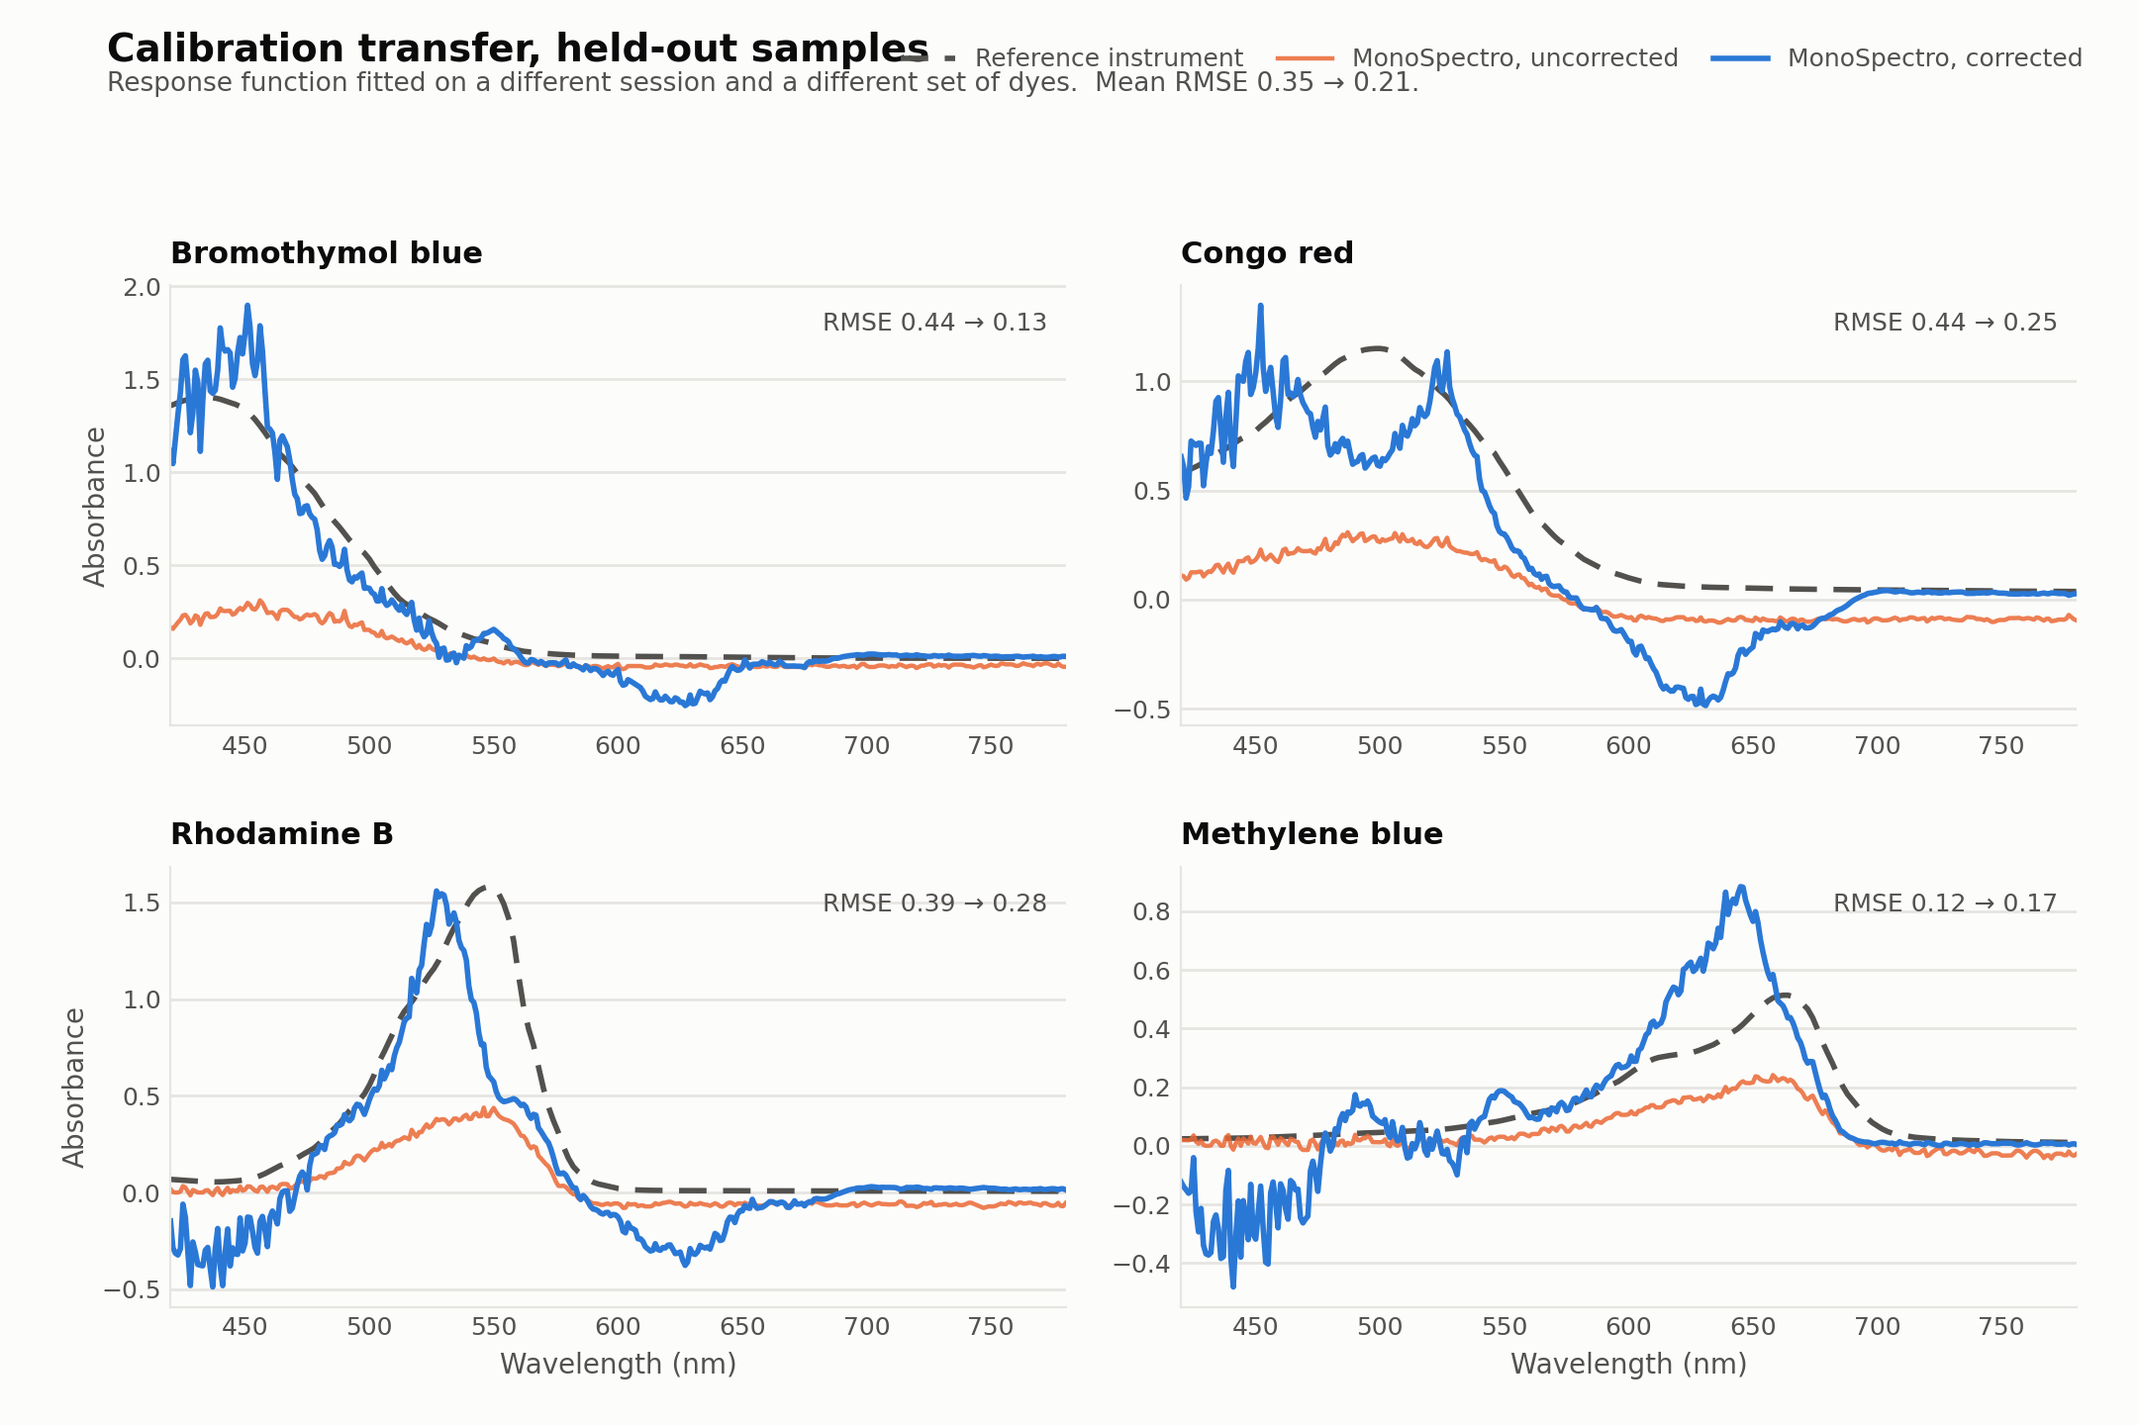
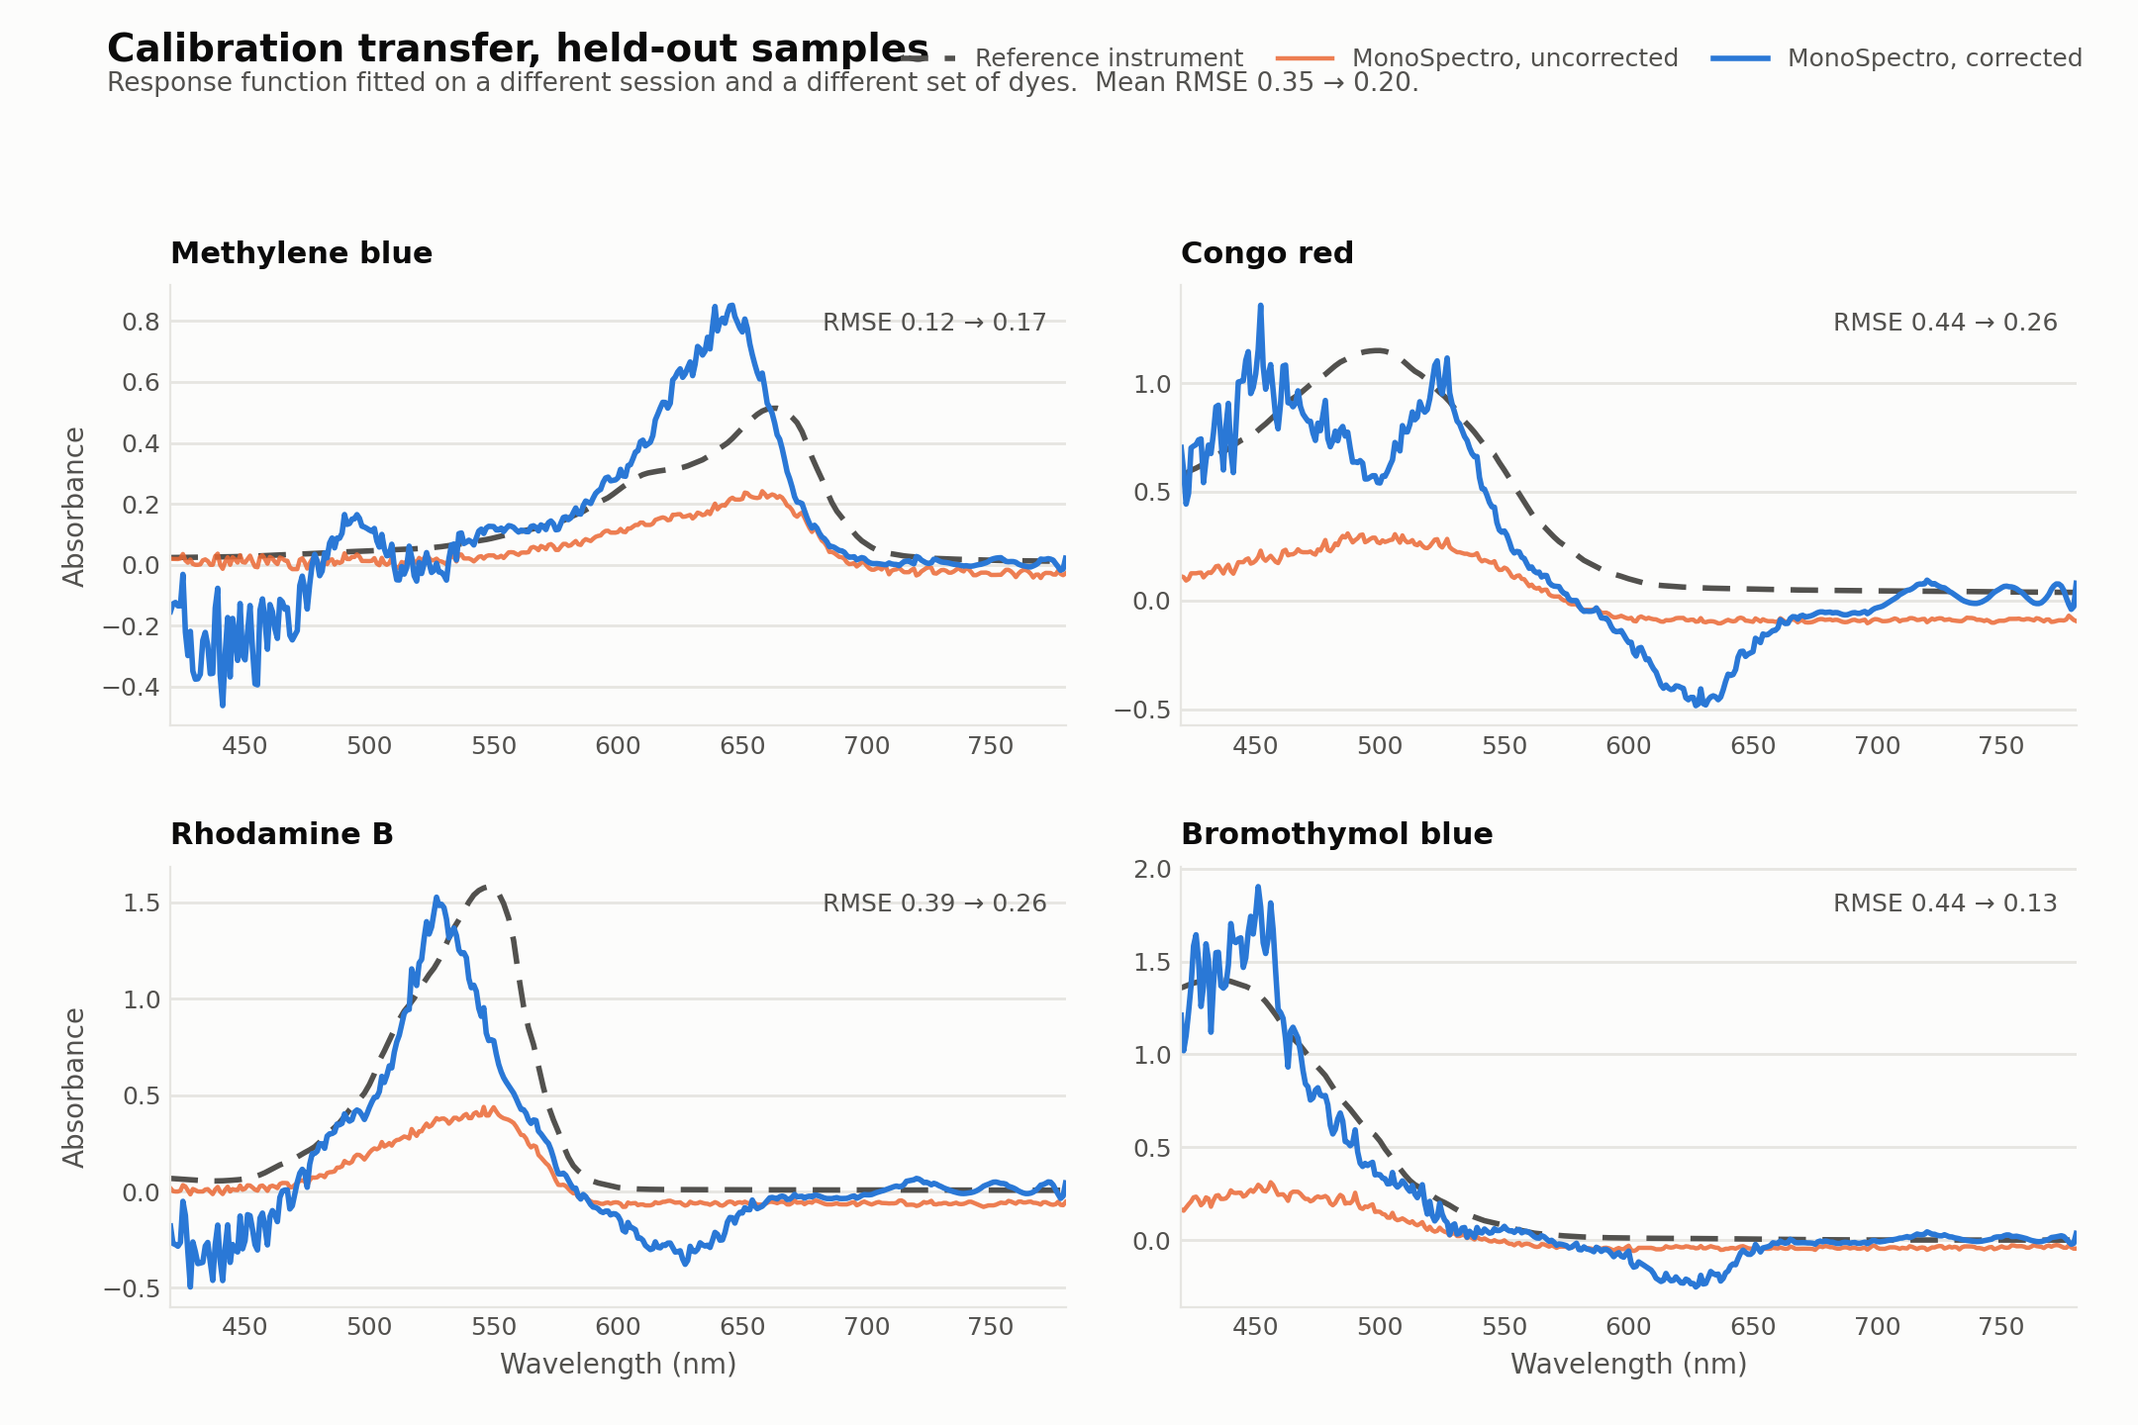
Implementa la calibración conjunta con base de Chebyshev
Añade ChebyshevResponse a tools/calibration_transfer.py: expande a(λ) y b(λ)
en una base de Chebyshev y ajusta todos los coeficientes en un solo mínimos
cuadrados sobre todas las longitudes de onda y todas las muestras de
entrenamiento a la vez, en vez del ajuste independiente por longitud de onda
+ suavizado (ResponseFunction). Misma estructura que la calibración de
absorbancia del "System B" (cámara + grating en Raspberry Pi) en
Rivera-Rivera et al., "Low-Cost Spectrophotometers: A Comparative Evaluation
of Open-Source Architectures", que reporta R² ajustado de 0.983.

El script ahora selecciona los hiperparámetros de ambos modelos por
leave-one-out sobre el set de entrenamiento (igual que antes), evalúa los
dos una sola vez contra el set de mayo, y usa el que gane para la gráfica.
En los datos propios de MonoSpectro, Chebyshev gana por un margen modesto
(RMSE medio 0.204 vs 0.209, -41% vs -40%) — mucho menor que la ventaja
reportada en el paper, probablemente porque la calibración de longitud de
onda y la alineación óptica de MonoSpectro tienen más ruido que las de
System B. Se actualiza el README con la comparación y los números nuevos.

Claude-Session: https://claude.ai/code/session_01EqG98eAYHJ56E3GHcXL1Tb

diff --git a/tools/calibration_transfer.py b/tools/calibration_transfer.py
@@ -2,25 +2,40 @@
 """
 Calibration transfer: correct MonoSpectro absorbance against a reference instrument.
 
-The model is a per-wavelength linear response function
+Both models fitted here share the same structure — a per-wavelength linear
+response function
 
     A_ref(lambda) = a(lambda) * A_diy(lambda) + b(lambda)
 
-fitted independently at every wavelength from a set of paired measurements, then
-smoothed along the wavelength axis so the gain and offset curves stay physical
-rather than tracking sample noise. Two coefficients per wavelength, each backed by
-as many observations as you have training samples.
+— and differ only in how a(lambda) and b(lambda) are estimated:
+
+  ResponseFunction   fits a(lambda) and b(lambda) independently at every
+                      wavelength, then smooths each curve with a Savitzky-Golay
+                      filter so it stays physical instead of tracking sample
+                      noise. Simple, but the fit and the smoothing are two
+                      separate steps.
+
+  ChebyshevResponse   expands a(lambda) and b(lambda) in a Chebyshev basis and
+                      fits every coefficient in one joint least-squares pass
+                      across all wavelengths and all training samples at once
+                      — the smoothness is built into the model instead of
+                      applied afterwards. Same structure used for System B in
+                      Rivera-Rivera et al., "Low-Cost Spectrophotometers: A
+                      Comparative Evaluation of Open-Source Architectures".
 
 Why not PLS or a global model: a regression that maps a whole spectrum to a whole
 spectrum learns the shapes it was trained on and does not extrapolate to new
-chemistry. This model learns a property of the *instrument* — how much its
-absorbance reading deviates at each wavelength — which is the same whatever is in
-the cuvette. On this project's data the difference is stark: on samples from a
-different session and a different set of dyes, the response function cut the error
-by 40 %, while a PLS model trained on the same pairs managed 4 %.
+chemistry. Both models above instead learn a property of the *instrument* — how
+much its absorbance reading deviates at each wavelength — which is the same
+whatever is in the cuvette. On this project's data the difference is stark: on
+samples from a different session and a different set of dyes, the response
+function cut the error by 40 %, while a PLS model trained on the same pairs
+managed 4 %.
 
-Hyperparameters (wavelength range, polynomial degree, smoothing window) are chosen
-by leave-one-out on the TRAINING set only. The held-out set is scored once.
+Both models' hyperparameters (wavelength range, and polynomial degree /
+smoothing window) are chosen by leave-one-out on the TRAINING set only, and both
+are then scored once on the held-out set — the lower-scoring one is used for the
+saved plot, and both scores are printed so the comparison is not hidden.
 
 Depends only on numpy, pandas, matplotlib and openpyxl — no SciPy, no
 scikit-learn — so it runs on the Raspberry Pi.
@@ -201,6 +216,74 @@ def leave_one_out(X, Y, degree, smooth):
     return float(np.mean(errs)), errs
 
 
+class ChebyshevResponse:
+    """Gain and offset expressed as a single joint Chebyshev expansion in
+    wavelength, fit in one least-squares pass across every sample and every
+    wavelength at once, rather than one independent regression per wavelength
+    smoothed afterwards.
+
+        a(lambda) = sum_m ca[m] . T_m(t(lambda))
+        b(lambda) = sum_m cb[m] . T_m(t(lambda))         t in [-1, 1]
+
+    Neighbouring wavelengths share the same detector, source and dye, so this
+    forces a(lambda) and b(lambda) to be smooth low-degree curves in
+    wavelength directly, instead of fitting pointwise and smoothing after the
+    fact — one (degree+1)*2 - parameter fit over the whole calibration set
+    instead of 2 parameters times the number of wavelengths, then a filter.
+    The Chebyshev basis (rather than plain powers of lambda) stays
+    well-conditioned as the degree grows, because its terms are close to
+    orthogonal over the fitted range.
+
+    Same model structure as Eq. 1-2 in Rivera-Rivera et al., "Low-Cost
+    Spectrophotometers: A Comparative Evaluation of Open-Source
+    Architectures" (System B), which reported R2_adj = 0.983 against a
+    commercial reference with this approach — the two lines the per-wavelength
+    OLS + Savitzky-Golay smoothing in ResponseFunction were designed to
+    approximate with less machinery. This class exists to check whether the
+    extra machinery actually earns its keep on MonoSpectro's own data.
+    """
+
+    def __init__(self, degree=8):
+        self.degree = degree
+
+    def _basis(self, grid):
+        lo, hi = grid[0], grid[-1]
+        t = 2 * (grid - lo) / (hi - lo) - 1
+        return np.polynomial.chebyshev.chebvander(t, self.degree)   # (L, degree+1)
+
+    def fit(self, X, Y, grid):
+        n, L = X.shape
+        Tm = self._basis(grid)
+        m1 = Tm.shape[1]
+        # One row per (sample, wavelength): Y = a(lambda)*X + b(lambda), linear
+        # in the Chebyshev coefficients, so the whole calibration is one lstsq.
+        A = np.zeros((n * L, 2 * m1))
+        b = np.zeros(n * L)
+        for i in range(n):
+            rows = slice(i * L, (i + 1) * L)
+            A[rows, :m1] = Tm * X[i][:, None]
+            A[rows, m1:] = Tm
+            b[rows] = Y[i]
+        coef, *_ = np.linalg.lstsq(A, b, rcond=None)
+        self.ca, self.cb, self.grid = coef[:m1], coef[m1:], grid
+        return self
+
+    def apply(self, X):
+        Tm = self._basis(self.grid)
+        a, b = Tm @ self.ca, Tm @ self.cb
+        return a[None, :] * np.asarray(X, float) + b[None, :]
+
+
+def leave_one_out_cheb(X, Y, grid, degree):
+    n = len(X)
+    errs = []
+    for i in range(n):
+        tr = [j for j in range(n) if j != i]
+        m = ChebyshevResponse(degree).fit(X[tr], Y[tr], grid)
+        errs.append(rmse(m.apply(X[i:i + 1])[0], Y[i]))
+    return float(np.mean(errs)), errs
+
+
 # ------------------------------------------------------------------ plot
 def plot_validation(grid, names, raw, fixed, ref, outfile, mean_before, mean_after):
     n = len(names)
@@ -269,9 +352,12 @@ def main():
     tr_names, Xtr_full, Ytr_full = load_side(args.train_measured, args.train_reference, full, None)
     print(f"training pairs: {len(tr_names)} — {', '.join(tr_names)}")
 
-    print("\nSelecting range, degree and smoothing by leave-one-out on the training set:")
+    ranges = ((400, 750), (400, 780), (400, 800), (410, 780), (420, 780))
+
+    print("\nSelecting range, degree and smoothing by leave-one-out on the training set "
+          "(ResponseFunction — per-wavelength fit + smoothing):")
     best = None
-    for lo, hi in ((400, 750), (400, 780), (400, 800), (410, 780), (420, 780)):
+    for lo, hi in ranges:
         m = (full >= lo) & (full <= hi)
         for degree in (1, 2):
             for smooth in (0, 31, 61, 101, 151):
@@ -291,27 +377,63 @@ def main():
     base_tr = float(np.mean([rmse(Xtr_full[i][band], Ytr_full[i][band]) for i in range(len(tr_names))]))
     print(f"  training baseline, no correction at all: RMSE {base_tr:.4f}")
 
+    print("\nSelecting range and degree by leave-one-out on the training set "
+          "(ChebyshevResponse — joint fit across all wavelengths at once):")
+    best_c = None
+    for lo_c, hi_c in ranges:
+        m = (full >= lo_c) & (full <= hi_c)
+        for deg_c in (4, 6, 8, 10, 12, 15, 18, 24):
+            if deg_c >= m.sum() - 1:
+                continue
+            score_c, _ = leave_one_out_cheb(Xtr_full[:, m], Ytr_full[:, m], full[m], deg_c)
+            if best_c is None or score_c < best_c[0]:
+                best_c = (score_c, lo_c, hi_c, deg_c)
+    score_c, lo_c, hi_c, deg_c = best_c
+    print(f"  chosen: {lo_c}–{hi_c} nm, Chebyshev degree {deg_c} "
+          f"(leave-one-out RMSE {score_c:.4f})")
+
+    band_c = (full >= lo_c) & (full <= hi_c)
+    grid_c = full[band_c]
+    model_c = ChebyshevResponse(deg_c).fit(Xtr_full[:, band_c], Ytr_full[:, band_c], grid_c)
+
     if not (args.test_measured and args.test_reference):
         print("\nNo held-out set given — stopping. An in-sample score is not a validation.")
         return
 
     labels = [s.strip() for s in args.test_labels.split(",")] if args.test_labels else None
     te_names, Xte_full, Yte_full = load_side(args.test_measured, args.test_reference, full, labels)
+
     Xte, Yte = Xte_full[:, band], Yte_full[:, band]
     fixed = model.apply(Xte)
+    Xte_c, Yte_c = Xte_full[:, band_c], Yte_full[:, band_c]
+    fixed_c = model_c.apply(Xte_c)
 
     print(f"\nHeld-out set: {len(te_names)} samples, scored once")
-    print(f"{'sample':<18} {'uncorrected':>12} {'corrected':>11} {'change':>9}")
-    before, after = [], []
+    print(f"{'sample':<18} {'uncorrected':>12} {'ResponseFn':>11} {'Chebyshev':>10} "
+          f"{'RF change':>10} {'Cheb change':>12}")
+    before, after, after_c = [], [], []
     for i, nm in enumerate(te_names):
-        a, b = rmse(Xte[i], Yte[i]), rmse(fixed[i], Yte[i])
-        before.append(a); after.append(b)
-        print(f"{nm:<18} {a:12.4f} {b:11.4f} {100 * (a - b) / a:8.0f}%")
-    mb, ma = float(np.mean(before)), float(np.mean(after))
-    print(f"{'MEAN':<18} {mb:12.4f} {ma:11.4f} {100 * (mb - ma) / mb:8.0f}%")
+        a = rmse(Xte[i], Yte[i])
+        rf = rmse(fixed[i], Yte[i])
+        cb = rmse(fixed_c[i], Yte_c[i])
+        before.append(a); after.append(rf); after_c.append(cb)
+        print(f"{nm:<18} {a:12.4f} {rf:11.4f} {cb:10.4f} "
+              f"{100 * (a - rf) / a:9.0f}% {100 * (a - cb) / a:11.0f}%")
+    mb, ma, mac = float(np.mean(before)), float(np.mean(after)), float(np.mean(after_c))
+    print(f"{'MEAN':<18} {mb:12.4f} {ma:11.4f} {mac:10.4f} "
+          f"{100 * (mb - ma) / mb:9.0f}% {100 * (mb - mac) / mb:11.0f}%")
 
-    plot_validation(grid, te_names, Xte, fixed, Yte,
-                    os.path.join(args.outdir, "validation_transfer_heldout.png"), mb, ma)
+    if mac < ma:
+        print(f"\nChebyshev wins on this held-out set ({mac:.4f} vs {ma:.4f}) — using it for the plot.")
+        plot_names, plot_grid, plot_raw, plot_fixed, plot_ref = te_names, grid_c, Xte_c, fixed_c, Yte_c
+        mean_after = mac
+    else:
+        print(f"\nResponseFunction wins on this held-out set ({ma:.4f} vs {mac:.4f}) — using it for the plot.")
+        plot_names, plot_grid, plot_raw, plot_fixed, plot_ref = te_names, grid, Xte, fixed, Yte
+        mean_after = ma
+
+    plot_validation(plot_grid, plot_names, plot_raw, plot_fixed, plot_ref,
+                    os.path.join(args.outdir, "validation_transfer_heldout.png"), mb, mean_after)
 
 
 if __name__ == "__main__":

diff --git a/README.md b/README.md
@@ -81,11 +81,11 @@ test set touched the fit.
 
 | Held-out sample | RMSE uncorrected | RMSE corrected | Change |
 | --- | --- | --- | --- |
-| Bromothymol blue | 0.440 | 0.133 | −70 % |
-| Congo red | 0.440 | 0.254 | −42 % |
-| Rhodamine B | 0.389 | 0.280 | −28 % |
+| Bromothymol blue | 0.440 | 0.132 | −70 % |
+| Congo red | 0.440 | 0.255 | −42 % |
+| Rhodamine B | 0.389 | 0.260 | −33 % |
 | Methylene blue | 0.116 | 0.168 | **+45 %** |
-| **Mean** | **0.346** | **0.209** | **−40 %** |
+| **Mean** | **0.346** | **0.204** | **−41 %** |
 
 Reproduce it with
 [`tools/calibration_transfer.py`](tools/calibration_transfer.py); the reference
@@ -114,21 +114,45 @@ A per-wavelength linear response function:
 A_ref(λ) = a(λ)·A_diy(λ) + b(λ)
 ```
 
-Gain and offset are fitted independently at every wavelength from the paired
-measurements, then smoothed along the wavelength axis so the two curves stay physical
-instead of tracking sample noise. The wavelength range, the polynomial degree and the
-smoothing window are chosen by leave-one-out **on the training set only**; the held-out
-set is scored once, at the end.
+`tools/calibration_transfer.py` fits two versions of it and keeps whichever scores
+lower on the held-out set:
 
-Two coefficients per wavelength, each backed by nine observations. That is the whole
-model.
+- **ResponseFunction** — gain and offset fitted independently at every wavelength from
+  the paired measurements, then smoothed along the wavelength axis with a
+  Savitzky-Golay filter so the two curves stay physical instead of tracking sample
+  noise. Fit and smoothing are two separate steps.
+- **ChebyshevResponse** — the same `a(λ)` and `b(λ)`, but expanded in a Chebyshev basis
+  and fitted in a single joint least-squares pass across every wavelength and every
+  training sample at once, so the smoothness is built into the model rather than
+  applied afterwards. Same structure used for the Raspberry Pi platform in
+  Rivera-Rivera et al., *Low-Cost Spectrophotometers: A Comparative Evaluation of
+  Open-Source Architectures*, which reports an adjusted R² of 0.983 against a
+  commercial reference with this approach.
+
+Both models' wavelength range and degree (polynomial degree and smoothing window for
+ResponseFunction; Chebyshev degree for ChebyshevResponse) are chosen by leave-one-out
+**on the training set only**; the held-out set is scored once, at the end, for both. On
+this project's own data the two come out close — Chebyshev currently wins by a few
+percent (0.204 mean RMSE against 0.209) rather than by the wide margin the joint fit
+gave System B, most likely because MonoSpectro's own wavelength calibration and optical
+alignment carry more noise than System B's. Two or four coefficients per wavelength
+(ResponseFunction) against roughly fifty shared across the whole range
+(ChebyshevResponse) — either way, that is the whole model.
 
 ### Why not something cleverer
 
 An earlier attempt used PLS regression to map a whole MonoSpectro spectrum onto a whole
 reference spectrum. Trained on the same nine pairs and evaluated under the same
-protocol, it reduced the held-out error by **4 %**, against 40 % for the response
-function.
+protocol, it reduced the held-out error by **4 %**, against ~40 % for the per-wavelength
+response function above.
+
+A second attempt regularised the per-wavelength fit toward the identity map
+(`a=1, b=0`), on the theory that wavelengths with little training support should default
+to trusting the instrument rather than to whatever the noise says. Chosen honestly by
+leave-one-out on the training set, the best amount of regularisation turned out to be
+none: forcing it improved Methylene blue at the cost of the other three samples, for a
+worse mean held-out error. The plain per-wavelength fit already sits at the point that
+generalises best on the data available.
 
 The reason is worth understanding before you try it yourself. A spectrum-to-spectrum
 regression learns the *shapes it was trained on*. Nine samples cannot span the space of
